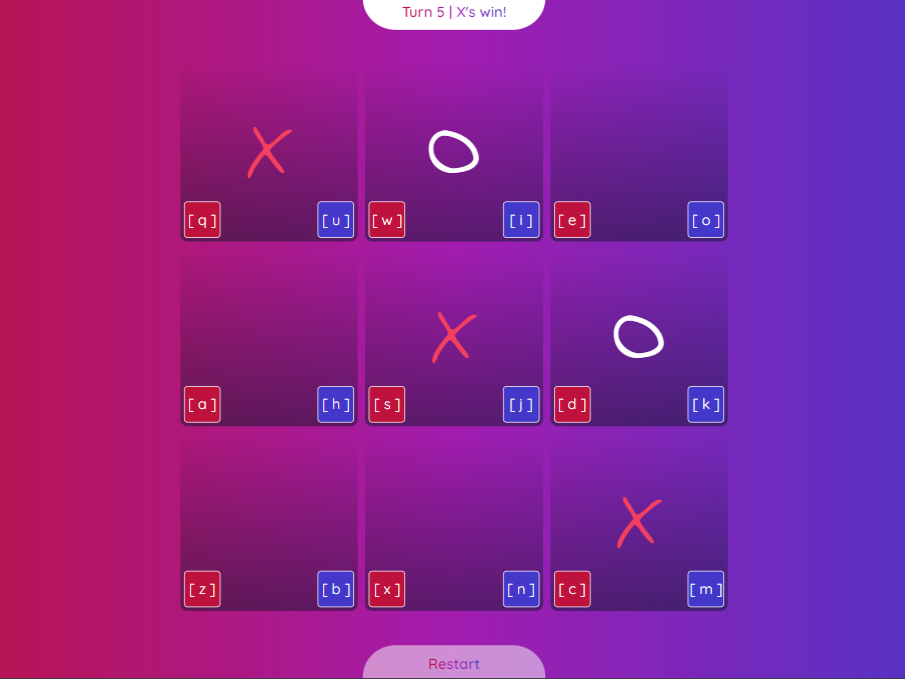
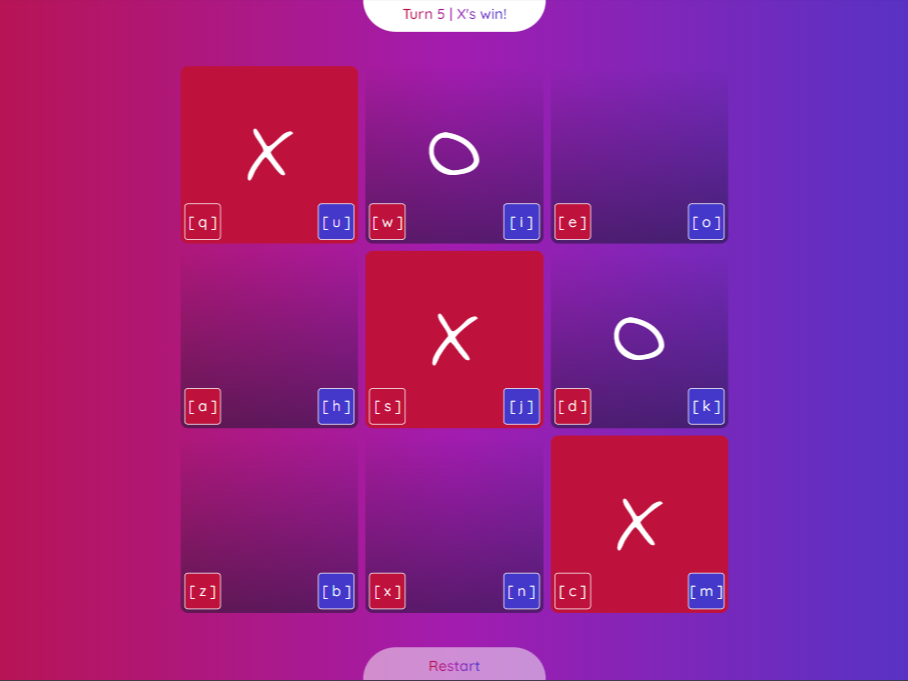
Change winning view

diff --git a/index.html b/index.html
@@ -49,8 +49,8 @@
     <audio id="finish-sound" src="./public/sound/finish.wav" preload="auto"></audio>
     <audio id="start-sound" src="./public/sound/start.wav" preload="auto"></audio>
 
-    <div class="text-rose-500"></div>
-    <div class="text-indigo-500"></div>
+    <div class="text-rose-500 bg-rose-700"></div>
+    <div class="text-indigo-500 bg-indigo-700"></div>
 
     <script src="https://cdn.jsdelivr.net/npm/@tsparticles/confetti@3.0.3/tsparticles.confetti.bundle.min.js"></script>
     <script src="https://cdn.jsdelivr.net/npm/sweetalert2@11.10.0/dist/sweetalert2.all.min.js"></script>
@@ -180,7 +180,12 @@
                     let color = winner == 'X' ? 'rose' : 'indigo';
 
                     select[winner].split('').map((e) => {
-                        $('#board-' + e).find('.value').removeClass('text-white').addClass(`text-${color}-500`);
+                        $('#board-' + e).find('.value')
+                            .removeClass(`text-${color}-500`)
+                            .addClass('text-white');
+                        $('#board-' + e)
+                            .removeClass('bg-gradient-to-t from-slate-900/50')
+                            .addClass(`bg-${color}-700`);
                     });
 
                     Swal.fire({
